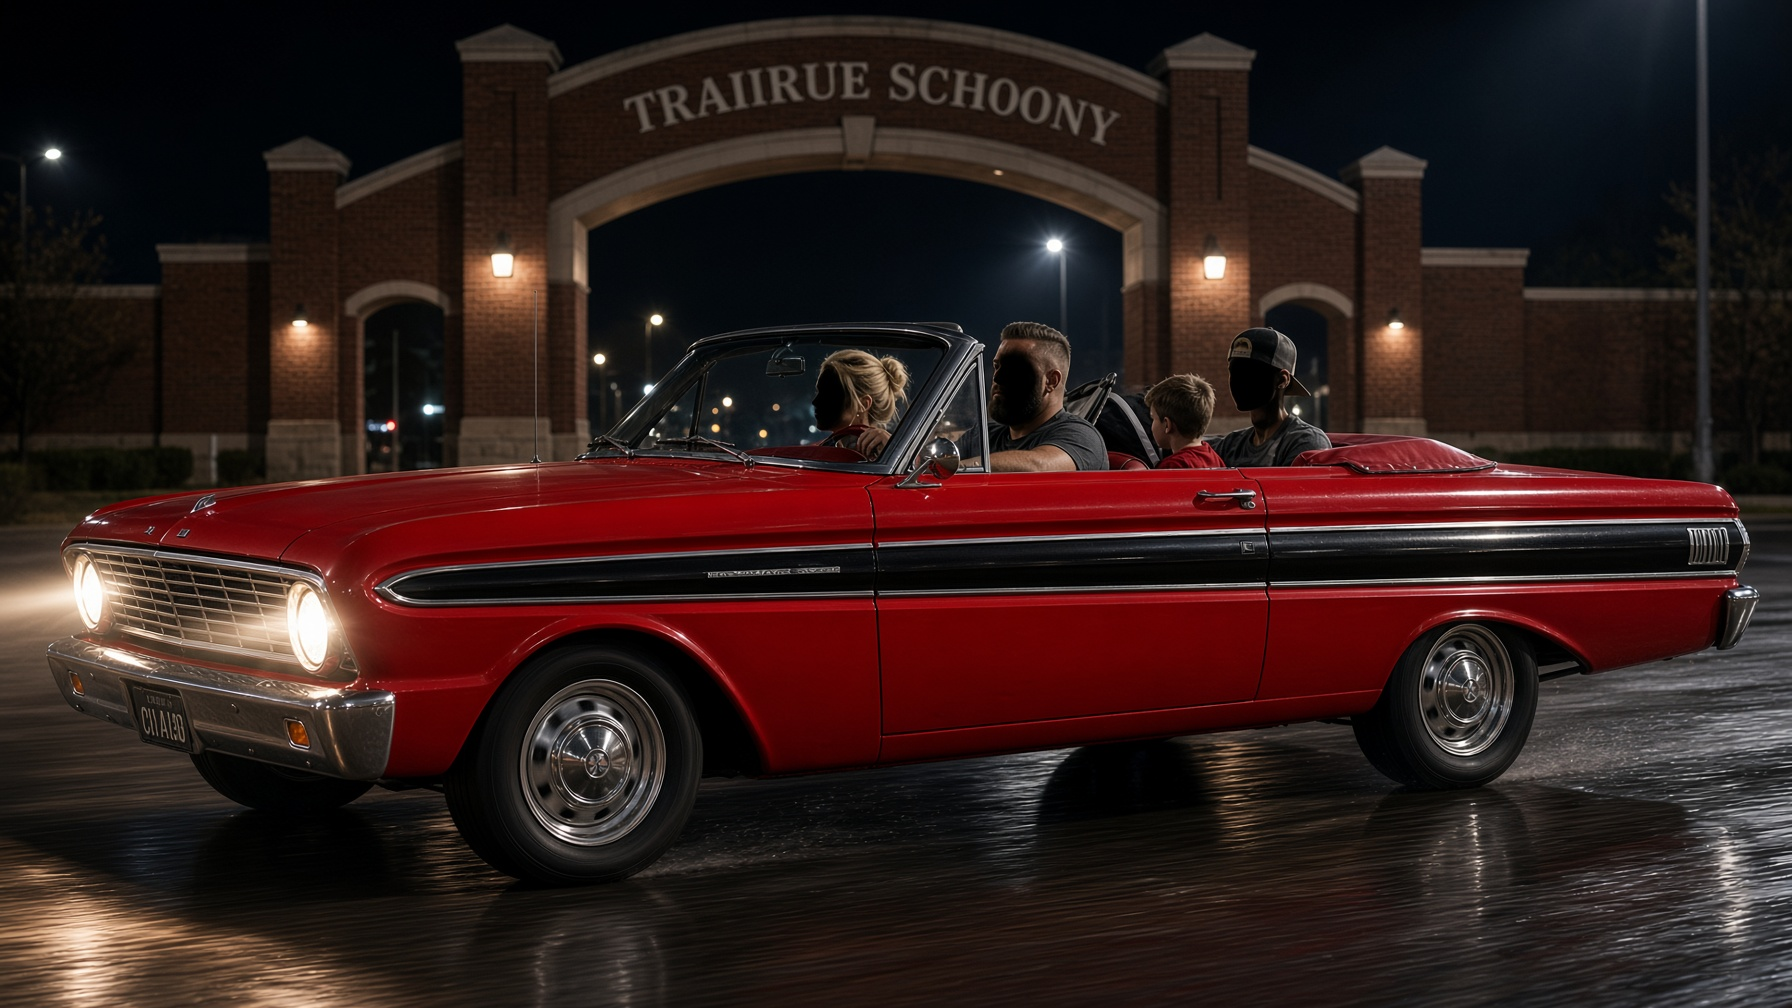
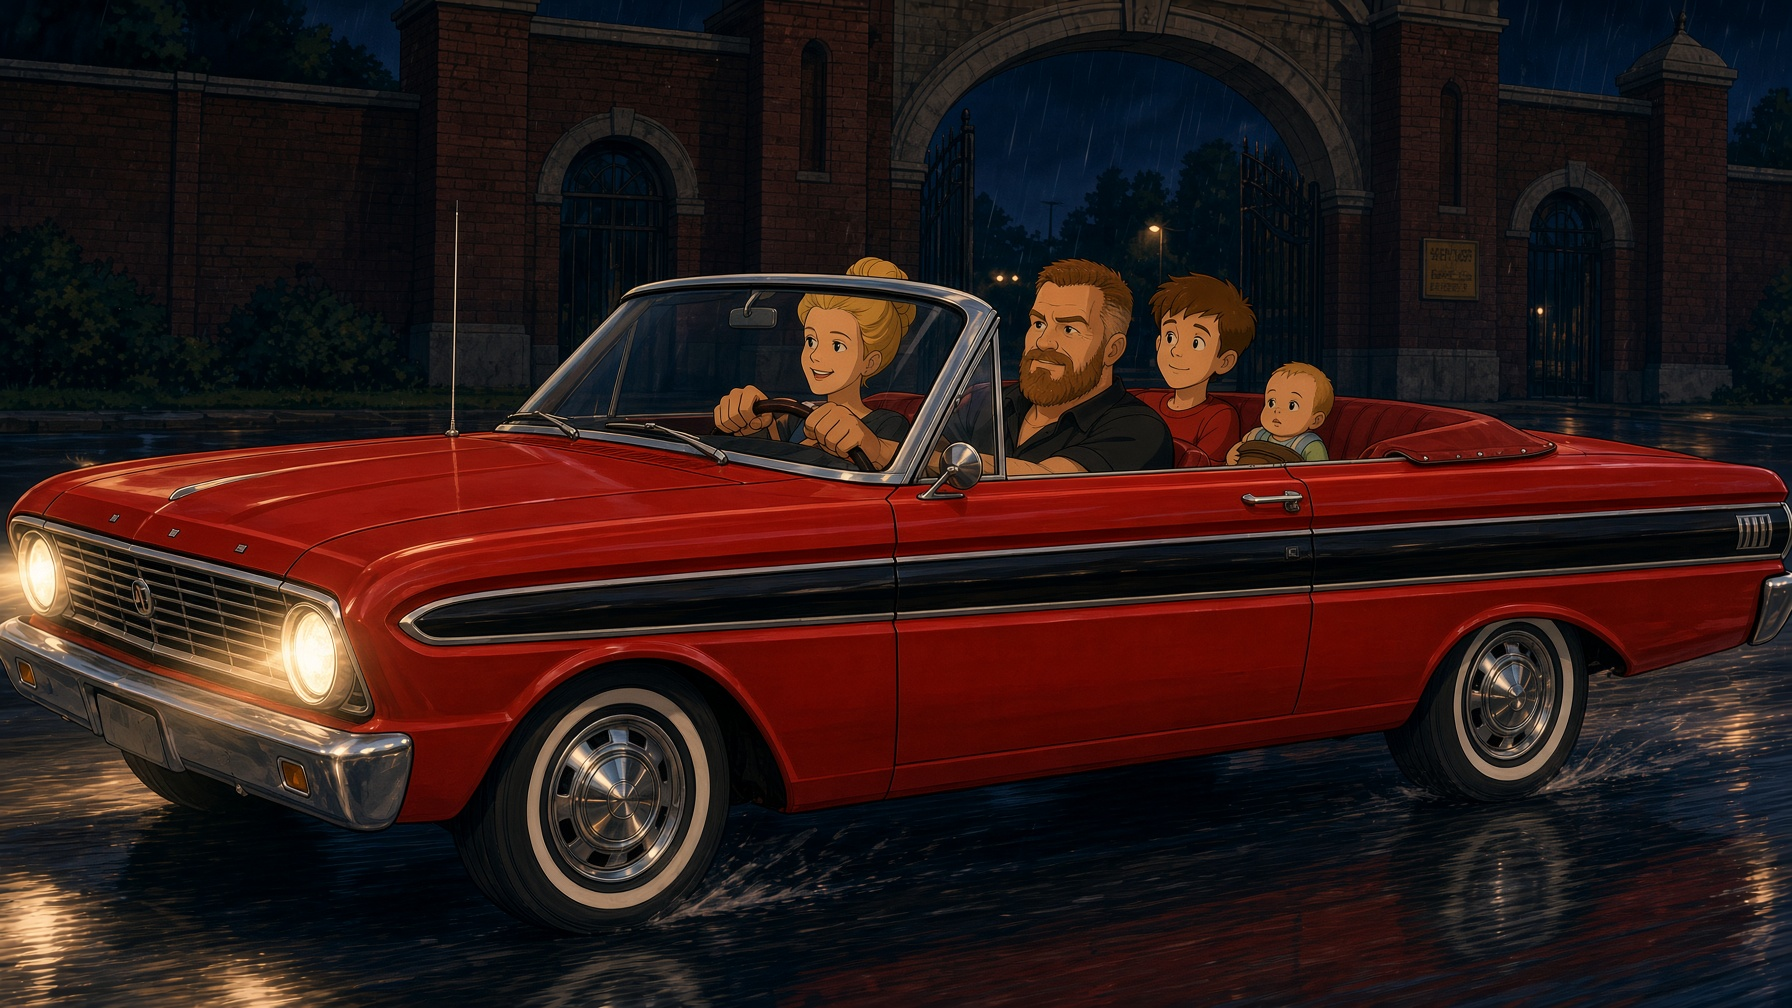
Paint the Falcon back into the cartoon, still shaped like the real car.

diff --git a/condenser-lair/lair.js b/condenser-lair/lair.js
@@ -531,7 +531,7 @@ const BEATS = [
     room: "falcon",
     roomNo: 18,
     roomName: "Falcon",
-    image: "art/r19.jpg?v=car",
+    image: "art/r19.jpg?v=toon",
     deathImage: "art/death-crowd.jpg",
     blurb: "Your '64 Falcon. Red, black stripe, blue gauges. Sidekick's already talking. Home is the other way.",
     call: "HOME",
@@ -561,7 +561,7 @@ const BEATS = [
     room: "falcon",
     roomNo: 18,
     roomName: "Falcon",
-    image: "art/r19.jpg?v=car",
+    image: "art/r19.jpg?v=toon",
     deathImage: "art/death-crowd.jpg",
     blurb: "Door's open. Stefany has Hope. Johnny's in the red shirt at the back seat. The school is the other way.",
     call: "IN",
